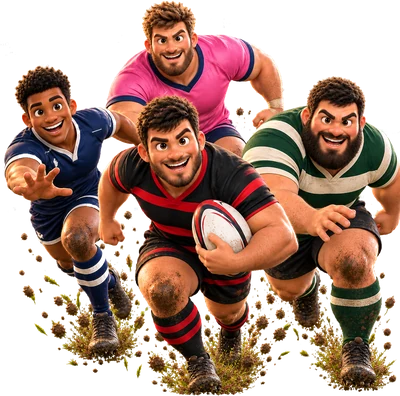
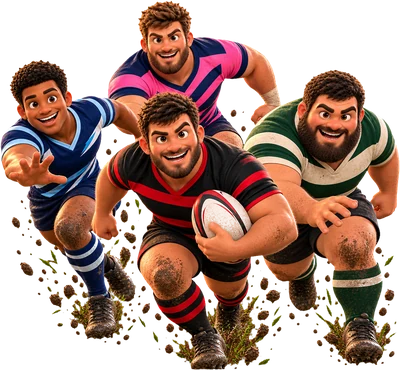
feat: nouvelle image pour le bandeau et le filigrane gauche

diff --git a/frontend/src/components/JoueursDecor.jsx b/frontend/src/components/JoueursDecor.jsx
@@ -21,8 +21,9 @@ const PAGES_BANDEAU = ['/', '/classement'];
 const SRCSET =
   '/equipe-400.webp 400w, /equipe-600.webp 600w, /equipe-900.webp 900w';
 
-// Deuxieme groupe, pour le coin gauche : des maillots differents, sans quoi le
-// meme dessin repete de part et d'autre se remarquerait immediatement.
+// Deuxieme groupe : le bandeau et le filigrane de gauche. Le coin droit garde
+// l'autre image, sans quoi le meme dessin repete de part et d'autre se
+// remarquerait immediatement.
 const SRCSET_G =
   '/equipe-g-400.webp 400w, /equipe-g-600.webp 600w, /equipe-g-900.webp 900w';
 
@@ -60,12 +61,12 @@ export default function JoueursDecor() {
       {avecBandeau && (
         <div className="joueurs-bandeau" aria-hidden="true">
           <img
-            src="/equipe-600.webp"
-            srcSet={SRCSET}
+            src="/equipe-g-600.webp"
+            srcSet={SRCSET_G}
             sizes="(min-width: 704px) 672px, 100vw"
             alt=""
             width={600}
-            height={552}
+            height={556}
             decoding="async"
           />
         </div>

diff --git a/frontend/src/components/JoueursDecor.css b/frontend/src/components/JoueursDecor.css
@@ -34,7 +34,7 @@
   object-fit: cover;
   /* 8 % et pas davantage : le joueur du fond a la tete au ras du bord
      superieur de l'image, et tout decalage plus grand la decapite. */
-  object-position: center 8%;
+  object-position: center 10%;
   -webkit-mask-image: linear-gradient(#000 70%, transparent 100%);
           mask-image: linear-gradient(#000 70%, transparent 100%);
 }
